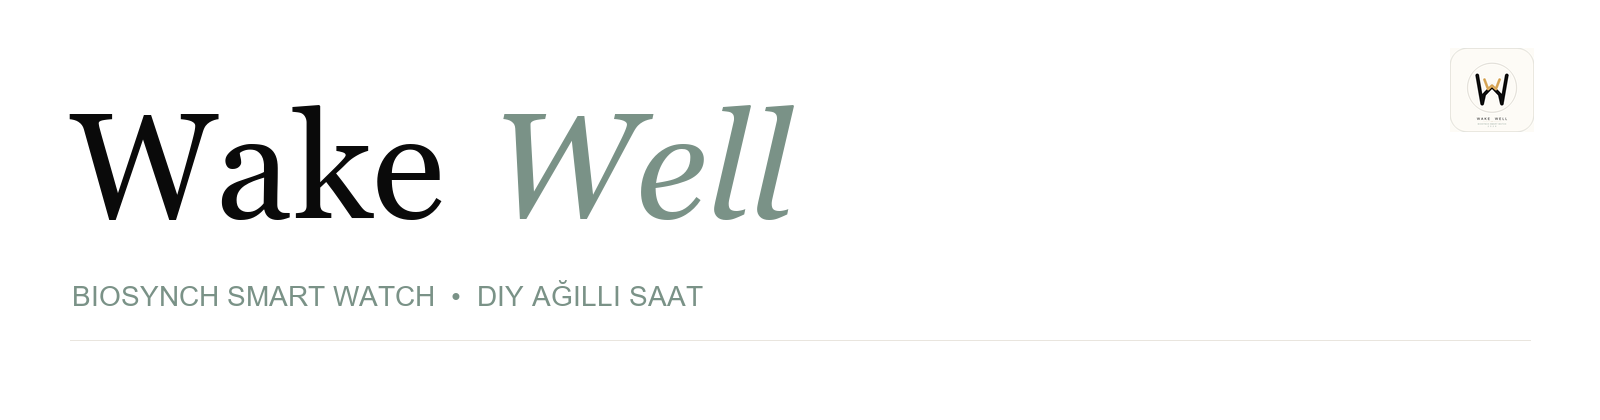
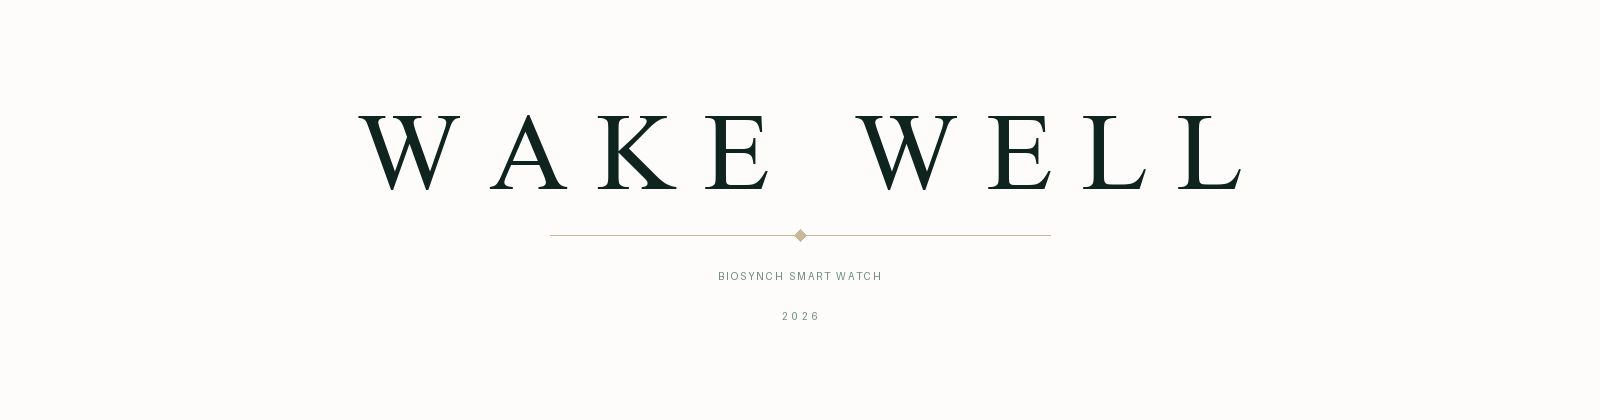
feat: add bottom words WAKE WELL / BIOSYNCH SMART WATCH / 2026 to footer and wordmark (match reference)

diff --git a/index.html b/index.html
@@ -448,9 +448,15 @@ a{ color:inherit; text-decoration:none}
       <div class="foot-lbl" data-i18n="foot_lbl">Layihə Müəllifləri</div>
       <div class="foot-names"><span>Eldar Həmidov</span><span>Məhəmməd Cəfərli</span><span>Məhəmməd İsmayıl</span></div>
     </div>
-    <div class="foot-right">
-      <div class="foot-logo">WakeWell</div>
-      <div class="foot-sub">Bio-Synch Smart Watch · DIY Ağıllı Saat</div>
+    <div class="foot-right" style="text-align:center;min-width:220px">
+      <div class="foot-logo" style="letter-spacing:0.42em;font-size:15px;font-weight:400">W A K E&nbsp;&nbsp;W E L L</div>
+      <div style="display:flex;align-items:center;justify-content:center;gap:0;margin:7px 0 8px">
+        <div style="width:84px;height:1px;background:#C9B99A"></div>
+        <div style="width:6px;height:6px;background:#C9B99A;transform:rotate(45deg);margin:0 6px"></div>
+        <div style="width:84px;height:1px;background:#C9B99A"></div>
+      </div>
+      <div class="foot-sub" style="letter-spacing:0.22em;font-size:9px;color:#A8C0B5">B I O S Y N C H&nbsp;&nbsp;S M A R T&nbsp;&nbsp;W A T C H</div>
+      <div class="foot-sub" style="letter-spacing:0.38em;font-size:9.5px;color:#8EA89B;margin-top:6px">2&nbsp;&nbsp;0&nbsp;&nbsp;2&nbsp;&nbsp;6</div>
     </div>
   </div>
 </footer>
